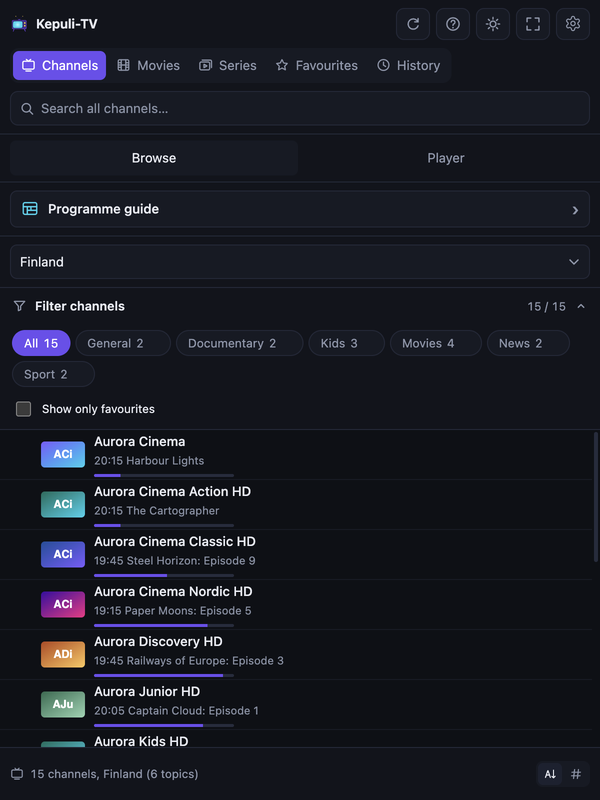
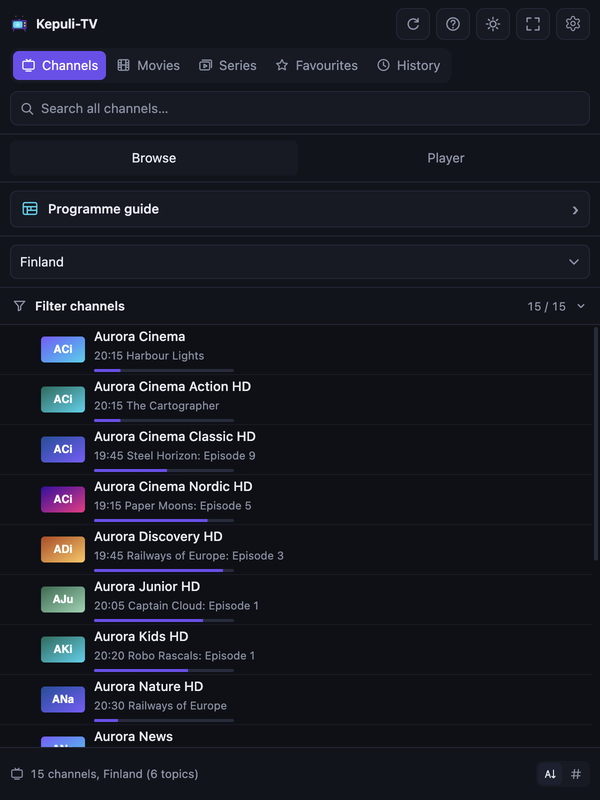
On a phone the guide keeps to two rows of controls and opens a programme as a sheet
On a Pixel 7's 412 px the guide showed four or five channels: five rows of controls above the grid and the chosen programme's panel below it took the rest. On a window 600 px or narrower the way back is now the bar's first mark, the group, the favourites' star and a magnifier share its row and the days take the next; the clock, the steps and the zoom go (the time moves with a swipe, the scale is fixed at about an hour and a half), Now floats in the corner only once the time on screen no longer holds it, and the programme search waits behind the magnifier. The channel column is 104 px, a logo and a name in two lines. A tap on a programme opens its panel as a sheet from the bottom instead of starting the channel, which played unseen under the guide; its ✕, a swipe down or Escape closes it. Eleven channels show now. The desktop is unchanged, pixel for pixel; phoneguide checks all of it in Chrome and Firefox, and the narrow list's reference follows the folded filters.

Claude-Session: https://claude.ai/code/session_011jsMnvavrX9QT7mi8kWFbA

diff --git a/js/guideui.js b/js/guideui.js
@@ -23,6 +23,15 @@ import { toast } from './toast.js';
 import { $, el } from './dom.js';
 import { sideScroll } from './sidescroll.js';
 
+// A phone's guide (css/last.css): a tap on a programme opens its panel as a
+// sheet rather than starting the channel, which there would play unseen
+// under the guide; the zoom is one, about an hour and a half across.
+const PHONE = '(max-width: 600px)';
+const phone = () => matchMedia(PHONE).matches;
+const PHONE_ZOOM = 1;
+function openSheet() { el.main.classList.add('guide-sheet'); }
+export function closeSheet() { el.main.classList.remove('guide-sheet'); }
+
 export const grid = new EpgGrid({
   scroll: $('epg-scroll'), canvas: $('epg-canvas'),
   timesInner: $('epg-times-inner'), chansInner: $('epg-chans-inner'),
@@ -35,7 +44,7 @@ export const grid = new EpgGrid({
   onActivate: activateProgramme,
   onChannel: (channel) => channel && showGuideChannel(channel),
   onPlay: (channel) => channel && playChannel(channel),
-  onPick: (channel, programme) => channel && pickProgramme(channel, programme),
+  onPick: (channel, programme) => channel && (phone() ? openSheet() : pickProgramme(channel, programme)),
   onWindow: (items, from, to) => state.epg && state.epg.setVisibleWindow(items, from, to),
   reminded: (channel, programme) => reminders.has(reminderKey(channel, programme)),
 });
@@ -62,9 +71,10 @@ export const programmeSearch = new ProgrammeSearch({
   onLeave: () => focusGrid(),
   onSelect: renderGuidePreview,
   onActivate: activateProgramme,
-  onPick: (channel, programme) => pickProgramme(channel, programme),
+  onPick: (channel, programme) => (phone() ? openSheet() : pickProgramme(channel, programme)),
   onMode: (searching) => {
     $('epg-body').hidden = searching;
+    if (!searching) showProgrammeSearch(false);
     if (searching) grid.hide();
     else if (guideOpen && !grid.open) grid.show();
   },
@@ -104,6 +114,7 @@ export async function openGuide() {
   grid.epg = state.epg;
   grid.setPlaying(state.playing && state.playing.k === 0 ? state.playing.id : null);
   setGridChannels(channels);
+  if (phone()) grid.zoomIndex = PHONE_ZOOM;
   grid.show();
   if (state.playing && state.playing.k === 0) grid.focusChannel(state.playing.id);
   focusGrid();
@@ -122,6 +133,8 @@ export function closeGuide() {
   const restoreFocus = el.epg.contains(document.activeElement) || el.epgPreview.contains(document.activeElement)
     || document.activeElement === $('epg-close');
   guideOpen = false;
+  closeSheet();
+  showProgrammeSearch(false);
   programmeSearch.clear();
   grid.hide();
   el.main.classList.remove('guide');
@@ -132,6 +145,38 @@ export function closeGuide() {
   vlist.refresh();
   renderInfoStrip();
   updateAddress();
+}
+
+/** The phone's programme search, shown behind its mark or put away. */
+function showProgrammeSearch(on) {
+  el.epg.classList.toggle('searching', on);
+  $('epg-search').setAttribute('aria-expanded', String(on));
+  if (on) $('programme-query').focus();
+}
+
+/**
+ * The phone's controls: the search's mark, and the sheet's close button,
+ * swipe and Escape (before the guide's own Escape, which would close it).
+ */
+export function wirePhoneGuide() {
+  $('epg-search').addEventListener('click', () => showProgrammeSearch(!el.epg.classList.contains('searching')));
+  $('epgv-close').addEventListener('click', closeSheet);
+  let startY = null;
+  el.epgPreview.addEventListener('pointerdown', (e) => { startY = e.clientY; });
+  el.epgPreview.addEventListener('pointerup', (e) => {
+    if (startY != null && e.clientY - startY > 60 && el.epgPreview.scrollTop <= 0) closeSheet();
+    startY = null;
+  });
+  document.addEventListener('keydown', (e) => {
+    if (e.key === 'Escape' && el.main.classList.contains('guide-sheet')) {
+      e.stopImmediatePropagation();
+      e.preventDefault();
+      closeSheet();
+      focusGrid();
+    }
+  }, true);
+  // Turned wider than a phone, the sheet is the side panel again.
+  matchMedia(PHONE).addEventListener('change', (e) => { if (!e.matches) closeSheet(); });
 }
 
 /** A group selector for the guide: the sidebar is hidden in guide mode. */

diff --git a/css/last.css b/css/last.css
@@ -27,6 +27,56 @@ input[type="search"], input[type="text"], input[type="url"], input:not([type]) {
    the choices open in its list), rather than taking a row of the four
    that the grid had left. */
 @media (max-width: 600px) {
+  /* The guide on a phone: two rows of controls and the grid under them,
+     some ten channels where four showed. The way back is the bar's first
+     mark rather than a row of its own; the clock, the steps and the zoom go
+     (the phone has a clock, a swipe moves the time and the scale is one),
+     Now floats only once the time is scrolled away from it, the search waits
+     behind a mark, and the panel of the programme chosen is a sheet that a
+     tap opens and a swipe down closes (js/guideui.js). */
+  main.guide { grid-template-rows: minmax(0, 1fr); position: relative; }
+  main.guide > .guide-header { position: absolute; top: 0; left: 0; z-index: 3; padding: 7px 0 0 8px; background: none; border: 0; }
+  main.guide > .guide-header h2 { display: none; }
+  main.guide .guide-back { padding: 6px 8px; }
+  main.guide .guide-back > span, .epg-favs > span {
+    position: absolute; width: 1px; height: 1px; margin: -1px; padding: 0;
+    overflow: hidden; clip-path: inset(50%); white-space: nowrap; border: 0;
+  }
+  main.guide > .epg { grid-area: 1 / 1; position: relative; }
+  .epg-bar { gap: 6px; }
+  .epg-bar .spacer, .epg-clock, #epg-prev, #epg-next, .epg-nav:has(#epg-in) { display: none; }
+  /* Room for the way back on the first row only: the days keep the width. */
+  #epg-group { flex: 1 1 0; min-width: 0; max-width: none; margin-left: 46px; }
+  .epg-search-toggle { display: inline-flex; }
+  .programme-form { display: none; }
+  .epg.searching .programme-form, .epg:has(#programme-panel:not([hidden])) .programme-form { display: flex; }
+  .epg-nav:has(#epg-now) { position: absolute; right: 14px; bottom: 16px; z-index: 4; }
+  .epg:not(.away-from-now) .epg-nav:has(#epg-now) { display: none; }
+  .epg-bar #epg-now { padding: 8px 16px; border: 0; border-radius: 999px; background: var(--accent); color: #fff; box-shadow: 0 4px 14px rgba(0, 0, 0, .35); }
+  :root { --epg-chan-w: 6.5rem; }
+  .epg-chan { gap: 6px; padding: 0 6px; }
+  .epg-chan-logo { width: 26px; height: 20px; }
+  .epg-chan-body { display: block; }
+  .epg-chan-name { display: -webkit-box; -webkit-box-orient: vertical; -webkit-line-clamp: 2; white-space: normal; line-height: 1.2; font-size: var(--fs-s); }
+  .epg-chan-rec { display: none; }
+  main.guide > .epgview {
+    position: fixed; left: 0; right: 0; bottom: 0; z-index: 20; max-height: 60vh; overflow-y: auto;
+    border: 1px solid var(--border); border-bottom: 0; border-radius: 14px 14px 0 0;
+    padding-bottom: calc(14px + env(safe-area-inset-bottom, 0px));
+    box-shadow: 0 -8px 24px rgba(0, 0, 0, .35);
+    transform: translateY(105%); visibility: hidden; transition: transform .2s ease, visibility 0s .2s;
+  }
+  main.guide.guide-sheet > .epgview { transform: none; visibility: visible; transition: transform .2s ease; }
+  .epgv-head { flex-wrap: wrap; touch-action: pan-x; }
+  .epgv-close { display: inline-flex; order: 2; }
+  .epgv-actions { order: 3; flex: 1 0 100%; flex-wrap: wrap; }
+  .epgv-actions button { flex: 1 1 auto; }
+}
+@media (max-width: 600px) and (prefers-reduced-motion: reduce) {
+  main.guide > .epgview, main.guide.guide-sheet > .epgview { transition: none; }
+}
+@media (max-width: 600px) {
+
   /* The days' box with its arrows (js/sidescroll.js) is the bar's item. */
   .epg-days-scroll { flex: 1 0 100%; }
   .epg-days { max-width: none; }

diff --git a/player.html b/player.html
@@ -361,6 +361,9 @@
         <div class="epgv-meta" id="epgv-meta"></div>
       </div>
       <div class="epgv-actions" id="epgv-actions"></div>
+      <!-- On a phone the panel is a sheet over the guide, opened by a tap
+           on a programme; this closes it, as a swipe down does. -->
+      <button type="button" id="epgv-close" class="ghost icon epgv-close" data-i18n-title="modal.close" data-i18n-label="modal.close"><svg viewBox="0 0 20 20" aria-hidden="true"><path d="m5 5 10 10M15 5 5 15"/></svg></button>
     </div>
     <div class="epgv-slot" id="epgv-slot"></div>
     <div class="epgv-desc" id="epgv-desc"></div>
@@ -372,6 +375,9 @@
       <select id="epg-group" class="epg-select" data-i18n-title="guide.group.title"></select>
       <!-- The favourite channels alone, whatever group they are in. -->
       <button type="button" id="epg-favs" class="ghost epg-favs" aria-pressed="false" data-i18n-title="guide.favs.title"><svg viewBox="0 0 20 20" aria-hidden="true"><path d="m10 2.8 2.2 4.5 5 .7-3.6 3.5.9 4.9L10 14.1l-4.5 2.3.9-4.9L2.8 8l5-.7z"/></svg><span data-i18n="tab.fav">Favourites</span></button>
+      <!-- On a phone the programme search waits behind this, the bar
+           keeping two rows (js/guideui.js); elsewhere it is not shown. -->
+      <button type="button" id="epg-search" class="ghost icon epg-search-toggle" aria-expanded="false" aria-controls="programme-form" data-i18n-title="programmes.search" data-i18n-label="programmes.search"><svg viewBox="0 0 20 20" aria-hidden="true"><circle cx="9" cy="9" r="6"/><path d="M13.5 13.5 18 18"/></svg></button>
       <div class="epg-days" id="epg-days"></div>
       <div class="spacer"></div>
       <div class="epg-nav">

diff --git a/js/app.js b/js/app.js
@@ -45,7 +45,7 @@ import { loadReminders, reminders, showReminders } from './remindersui.js';
 import { renderInfoStrip } from './infostrip.js';
 import { applyListLayout, gridColumns, isWatched, nameCleanerFor, onEpgUpdated, renderRow, restoreListView, listName, shownName, toggleFavorite, toggleWatched, usesGrid, watchGridWidth } from './coversui.js';
 import { closeDetail, crumbLabel, episodesOfSeason, openItem, openSeries, renderDetail } from './seriesui.js';
-import { closeGuide, favoritesChanged, focusGrid, grid, guideFavorites, guideOpen, openGuide, programmeSearch, renderGuideGroups, restoreGuideFavorites, setGuideFavorites, toggleGuide } from './guideui.js';
+import { closeGuide, favoritesChanged, focusGrid, grid, guideFavorites, guideOpen, openGuide, programmeSearch, renderGuideGroups, restoreGuideFavorites, setGuideFavorites, toggleGuide, wirePhoneGuide } from './guideui.js';
 
 import { ensureFull, orderList, renderEmptyState, renderListInfo, wireSubcatsKeys, wireSubcatsResize } from './topicbar.js';
 import { askExternal, playExternal } from './externalui.js';
@@ -1946,6 +1946,7 @@ function wireUi() {
   $('btn-live').addEventListener('click', () => state.catchup && playItem(state.catchup.channel));
   $('btn-guide').addEventListener('click', toggleGuide);
   $('epg-close').addEventListener('click', closeGuide);
+  wirePhoneGuide();
   $('epg-now').addEventListener('click', () => { grid.goNow(); focusGrid(); });
   $('epg-prev').addEventListener('click', () => { grid.nudge(-30); focusGrid(); });
   $('epg-next').addEventListener('click', () => { grid.nudge(30); focusGrid(); });

diff --git a/css/guide.css b/css/guide.css
@@ -11,6 +11,10 @@
   background: var(--panel); border-bottom: 1px solid var(--border);
 }
 .epgv-head { display: flex; align-items: center; gap: 10px; }
+/* The phone's: the search behind a mark and the sheet's close (last.css). */
+.epg-search-toggle, .epgv-close { display: none; align-items: center; justify-content: center; width: 34px; height: 34px; padding: 0; }
+.epg-search-toggle svg, .epgv-close svg { width: 18px; height: 18px; fill: none; stroke: currentColor; stroke-width: 1.6; stroke-linecap: round; }
+.epg-search-toggle[aria-expanded="true"] { color: var(--accent-ink); border-color: var(--accent); }
 .epgv-logo { width: 44px; height: 34px; object-fit: contain; flex: none; }
 .epgv-chan { min-width: 0; flex: 1; }
 .epgv-name { font-weight: 600; font-size: 0.875rem; overflow: hidden; text-overflow: ellipsis; white-space: nowrap; }

diff --git a/js/epggrid.js b/js/epggrid.js
@@ -219,6 +219,10 @@ export class EpgGrid {
     this.paintChannels(first, last);
     this.paintBlocks(first, last, scrollLeft, clientWidth);
     this.moveNow();
+    // Now is offered where the time on screen does not hold it (a phone's
+    // guide floats the button only then, css/last.css).
+    const nowX = this.x(Date.now());
+    this.el.scroll.closest('.epg')?.classList.toggle('away-from-now', nowX < scrollLeft || nowX > scrollLeft + clientWidth);
 
     this.el.corner.textContent = shortDay(from);
     for (const day of this.dayButtons) {

diff --git a/docs/user-guide.md b/docs/user-guide.md
@@ -727,6 +727,18 @@ remembered from one opening to the next, also while no channel is starred,
 when the guide says so in the grid's place: "No channel is a favourite yet:
 star one in the list, and only the starred ones are shown." It is separate
 from the favourite mode of **Filter countries**.
+
+On a phone (a window 600 px or narrower) the guide keeps to two rows of
+controls, the way back (←), the group, the favourites' star and the
+search's magnifier, then the days, and gives the rest to the grid: some
+ten channels on a Pixel 7 where four showed. Swipe to move in time; **Now**
+floats in the corner once the time on screen no longer holds it. A tap on a
+programme opens its details as a sheet from the bottom, with **Start from
+the beginning**, **Go to channel** or **Remind me**, and plays nothing until
+you choose; swipe it down, or press its ✕, to close it. The search hides
+behind the magnifier, and the scale is fixed at about an hour and a half
+across.
+
 **Back to channels** at the top left returns to the channel list. You can
 also close the guide with `Esc` or `g`.
 
